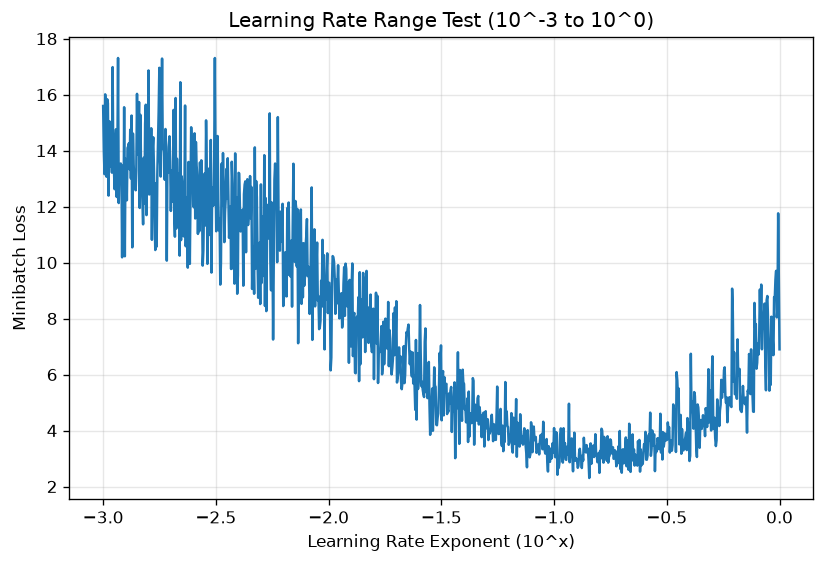
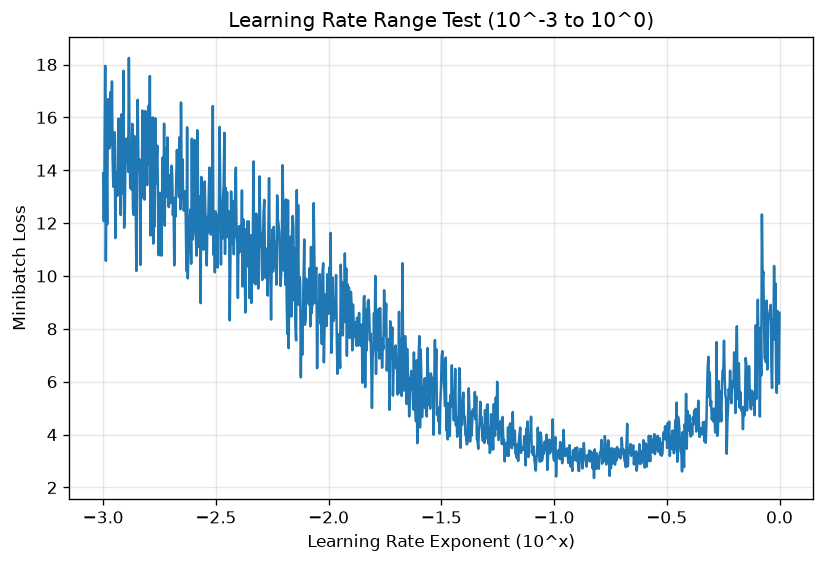
l3 close to be done

diff --git a/py/l3.py b/py/l3.py
@@ -4,6 +4,7 @@ import torch
 import torch.nn.functional as F
 import matplotlib.pyplot as plt
 import os
+import random
 
 with open("./data/names.txt", "r") as file:
     words = file.read().splitlines()
@@ -39,93 +40,197 @@ print(
 #     print(f"'{context_str}' ({x.tolist()}) ---> '{target_str}' ({y.item()})")
 #
 
-g = torch.Generator().manual_seed(2147483647)
-
-# this is feature embedding Matrix
-C = torch.randn((27, 2), generator=g, requires_grad=True)
-
-# this one is lookup embedding
-emb = C[X]
-
-print(f"\nEmbedding tensor shape: {emb.shape}")
-print(f"Example 0 context embedding:\n{emb[0]}")
-
-# this here is hiddle layer
-W1 = torch.randn((6, 100), generator=g, requires_grad=True)
-b1 = torch.randn(100, generator=g, requires_grad=True)
-
-# this is output later
-
-W2 = torch.randn((100, 27), generator=g, requires_grad=True)
-b2 = torch.randn(27, generator=g, requires_grad=True)
-
-parameters = [C, W1, b1, W2, b2]
-
-print(f"total parameters:{sum(p.nelement() for p in parameters)}")
-
-# forward pass
-h = torch.tanh(emb.view(-1, 6) @ W1 + b1)
-
-logits = h @ W2 + b2
-
-loss = F.cross_entropy(logits, Y)
-
-print(f"h shape: {h.shape}")
-print(f"logits shape: {logits.shape}")
-print(f"Initial loss: {loss.item():.4f}")
-
-# ok let's overfiut to check if model architecture and autograd is ok
-for k in range(50):
-    emb_batch = C[X[:32]]
-    h_batch = torch.tanh(emb_batch.view(-1, 6) @ W1 + b1)
-    logits_batch = h_batch @ W2 + b2
-    loss_batch = F.cross_entropy(logits_batch, Y[:32])
-
-    for p in parameters:
-        p.grad = None
-
-    loss_batch.backward()
-
-    for p in parameters:
-        p.data += torch.tensor(-0.01) * p.grad
-
-    if k % 10 == 0 or k == 49:
-        print(f"step {k:2d} | single batch loss: {loss_batch.item():.4f}")
-
-
-lre = torch.linspace(-3, 0, 1000)
-lrs = 10**lre
+# g = torch.Generator().manual_seed(2147483647)
+#
+# # this is feature embedding Matrix
+# C = torch.randn((27, 2), generator=g, requires_grad=True)
+#
+# # this one is lookup embedding
+# emb = C[X]
+#
+# print(f"\nEmbedding tensor shape: {emb.shape}")
+# print(f"Example 0 context embedding:\n{emb[0]}")
+#
+# # this here is hiddle layer
+# W1 = torch.randn((6, 100), generator=g, requires_grad=True)
+# b1 = torch.randn(100, generator=g, requires_grad=True)
+#
+# # this is output later
+#
+# W2 = torch.randn((100, 27), generator=g, requires_grad=True)
+# b2 = torch.randn(27, generator=g, requires_grad=True)
+#
+# parameters = [C, W1, b1, W2, b2]
+#
+# print(f"total parameters:{sum(p.nelement() for p in parameters)}")
+#
+# # forward pass
+# h = torch.tanh(emb.view(-1, 6) @ W1 + b1)
+#
+# logits = h @ W2 + b2
+#
+# loss = F.cross_entropy(logits, Y)
+#
+# print(f"h shape: {h.shape}")
+# print(f"logits shape: {logits.shape}")
+# print(f"Initial loss: {loss.item():.4f}")
+#
+# # ok let's overfiut to check if model architecture and autograd is ok
+# for k in range(50):
+#     emb_batch = C[X[:32]]
+#     h_batch = torch.tanh(emb_batch.view(-1, 6) @ W1 + b1)
+#     logits_batch = h_batch @ W2 + b2
+#     loss_batch = F.cross_entropy(logits_batch, Y[:32])
+#
+#     for p in parameters:
+#         p.grad = None
+#
+#     loss_batch.backward()
+#
+#     for p in parameters:
+#         p.data += torch.tensor(-0.01) * p.grad
+#
+#     if k % 10 == 0 or k == 49:
+#         print(f"step {k:2d} | single batch loss: {loss_batch.item():.4f}")
+#
+#
+# lre = torch.linspace(-3, 0, 1000)
+# lrs = 10**lre
 
 # these ae just for plotting so we can know best optimal learning rate for us
-lri = []
+# lri = []
+# lossi = []
+#
+# for i in range(1000):
+#     ix = torch.randint(0, X.shape[0], (32,))
+#
+#     emb = C[X[ix]]  # 32, 3, 2
+#     h = torch.tanh(emb.view(-1, 6) @ W1 + b1)
+#     logits = h @ W2 + b2  # 32, 27
+#     loss = F.cross_entropy(logits, Y[ix])
+#
+#     for p in parameters:
+#         p.grad = None
+#     loss.backward()
+#
+#     lr = lrs[i]
+#     for p in parameters:
+#         p.data += -lr * p.grad
+#
+#     lri.append(lre[i].item())
+#     lossi.append(loss.item())
+
+# os.makedirs("plots", exist_ok=True)
+# plt.figure(figsize=(8, 5))
+# plt.plot(lri, lossi)
+# plt.xlabel("Learning Rate Exponent (10^x)")
+# plt.ylabel("Minibatch Loss")
+# plt.title("Learning Rate Range Test (10^-3 to 10^0)")
+# plt.grid(True, alpha=0.3)
+# plt.savefig("plots/l03_lr_search.png", dpi=120, bbox_inches="tight")
+# plt.close()
+# print("\nLR Search completed! Plot saved to plots/l03_lr_search.png")
+#
+# now we scale it up and train properly
+random.seed(69)
+random.shuffle(words)
+n1 = int(0.8 * len(words))
+n2 = int(0.9 * len(words))
+
+
+def build_dataset(words_subset):
+    X, Y = [], []
+
+    for w in words_subset:
+        context = [0] * block_size
+        for ch in w + ".":
+            ix = stoi[ch]
+            X.append(context)
+            Y.append(ix)
+
+            context = context[1:] + [ix]
+    return torch.tensor(X, dtype=torch.long), torch.tensor(Y, dtype=torch.long)
+
+
+Xtr, Ytr = build_dataset(words[:n1])
+Xva, Yva = build_dataset(words[n1:n2])
+Xte, Yte = build_dataset(words[n2:])
+
+print("\n--- Data Splits ---")
+print(f"Train: {Xtr.shape[0]} examples")
+print(f"Val:   {Xva.shape[0]} examples")
+print(f"Test:  {Xte.shape[0]} examples")
+
+n_embd = 10
+n_hidden = 200
+
+g = torch.Generator().manual_seed(2147483647)
+C = torch.randn((27, n_embd), generator=g, requires_grad=True)
+W1 = torch.randn((block_size * n_embd, n_hidden), generator=g, requires_grad=True)
+b1 = torch.randn(n_hidden, generator=g, requires_grad=True)
+W2 = torch.randn((n_hidden, 27), generator=g, requires_grad=True)
+b2 = torch.randn(27, generator=g, requires_grad=True)
+parameters = [C, W1, b1, W2, b2]
+
+print(f"\nTotal scaled parameters: {sum(p.nelement() for p in parameters)}")
+
 lossi = []
 
-for i in range(1000):
-    ix = torch.randint(0, X.shape[0], (32,))
 
-    emb = C[X[ix]]  # 32, 3, 2
-    h = torch.tanh(emb.view(-1, 6) @ W1 + b1)
-    logits = h @ W2 + b2  # 32, 27
-    loss = F.cross_entropy(logits, Y[ix])
+for i in range(200000):
+    # here is Minibatch
+    ix = torch.randint(0, Xtr.shape[0], (32,))
+
+    # forward pass
+    emb = C[X[ix]]
+
+    h = torch.tanh(emb.view(-1, block_size * n_embd) @ W1 + b1)
+    logits = h @ W2 + b2
+    loss = F.cross_entropy(logits, Ytr[ix])
 
     for p in parameters:
         p.grad = None
     loss.backward()
 
-    lr = lrs[i]
+    lr = torch.tensor(0.1) if i < 100000 else torch.tensor(0.01)
+
     for p in parameters:
         p.data += -lr * p.grad
 
-    lri.append(lre[i].item())
-    lossi.append(loss.item())
+    if i % 20000 == 0 or i == 199999:
+        print(f"step {i:6d} | lr: {lr:.2f} | minibatch loss: {loss.item():.4f}")
 
-os.makedirs("plots", exist_ok=True)
-plt.figure(figsize=(8, 5))
-plt.plot(lri, lossi)
-plt.xlabel("Learning Rate Exponent (10^x)")
-plt.ylabel("Minibatch Loss")
-plt.title("Learning Rate Range Test (10^-3 to 10^0)")
-plt.grid(True, alpha=0.3)
-plt.savefig("plots/l03_lr_search.png", dpi=120, bbox_inches="tight")
-plt.close()
-print("\nLR Search completed! Plot saved to plots/l03_lr_search.png")
+
+@torch.no_grad()
+def evaluate_split(X_split, Y_split):
+    emb = C[X_split]
+    h = torch.tanh(emb.view(-1, block_size * n_embd) @ W1 + b1)
+    logits = h @ W2 + b2
+    return F.cross_entropy(logits, Y_split).item()
+
+
+train_loss = evaluate_split(Xtr, Ytr)
+val_loss = evaluate_split(Xva, Yva)
+
+print("\n--- Final Evaluation ---")
+print(f"Train loss: {train_loss:.4f}")
+print(f"Val loss:   {val_loss:.4f}")
+
+print("\n--- Generated Names (Bengio MLP) ---")
+g = torch.Generator().manual_seed(2147483647 + 10)
+
+for _ in range(10):
+    out = []
+    context = [0] * block_size
+    while True:
+        emb = C[torch.tensor([context])]  # (1, block_size, n_embd)
+        h = torch.tanh(emb.view(1, -1) @ W1 + b1)
+        logits = h @ W2 + b2
+        probs = F.softmax(logits, dim=1)
+
+        ix = int(torch.multinomial(probs, num_samples=1, generator=g).item())
+        context = context[1:] + [ix]
+        out.append(itos[ix])
+        if ix == 0:
+            break
+    print("".join(out))
